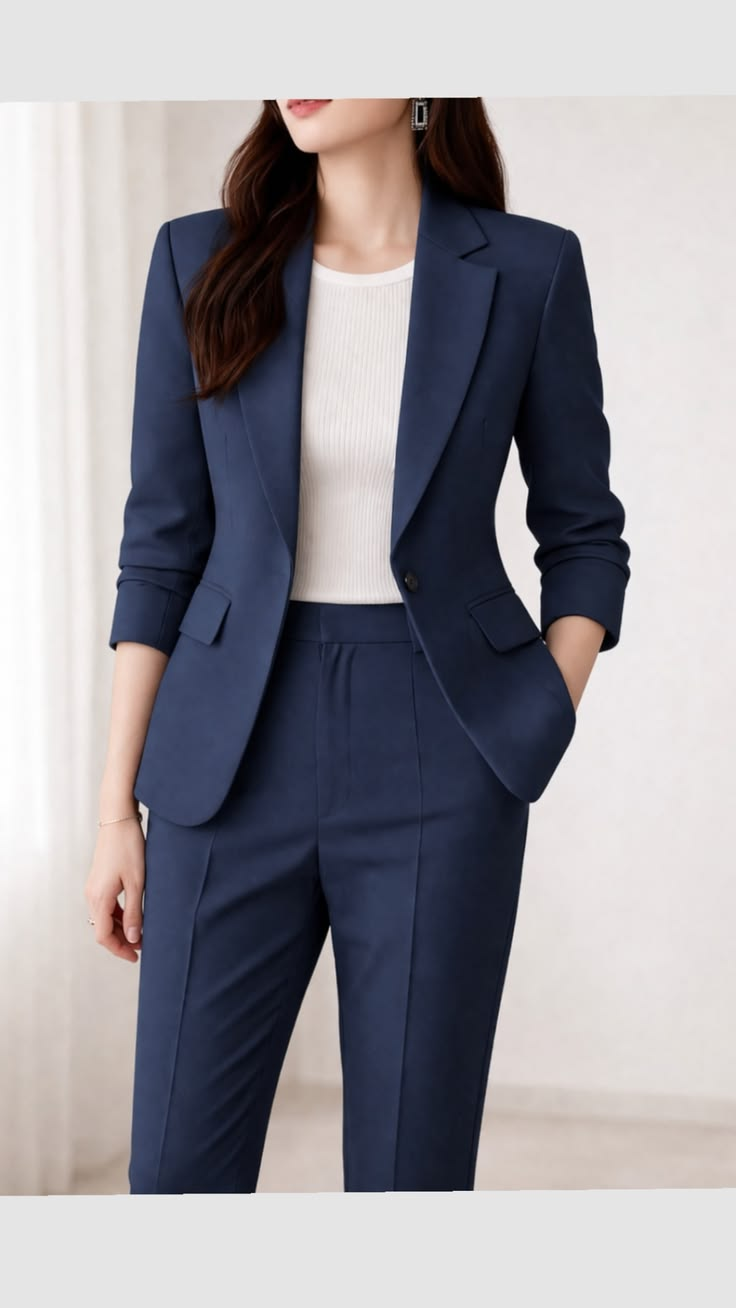
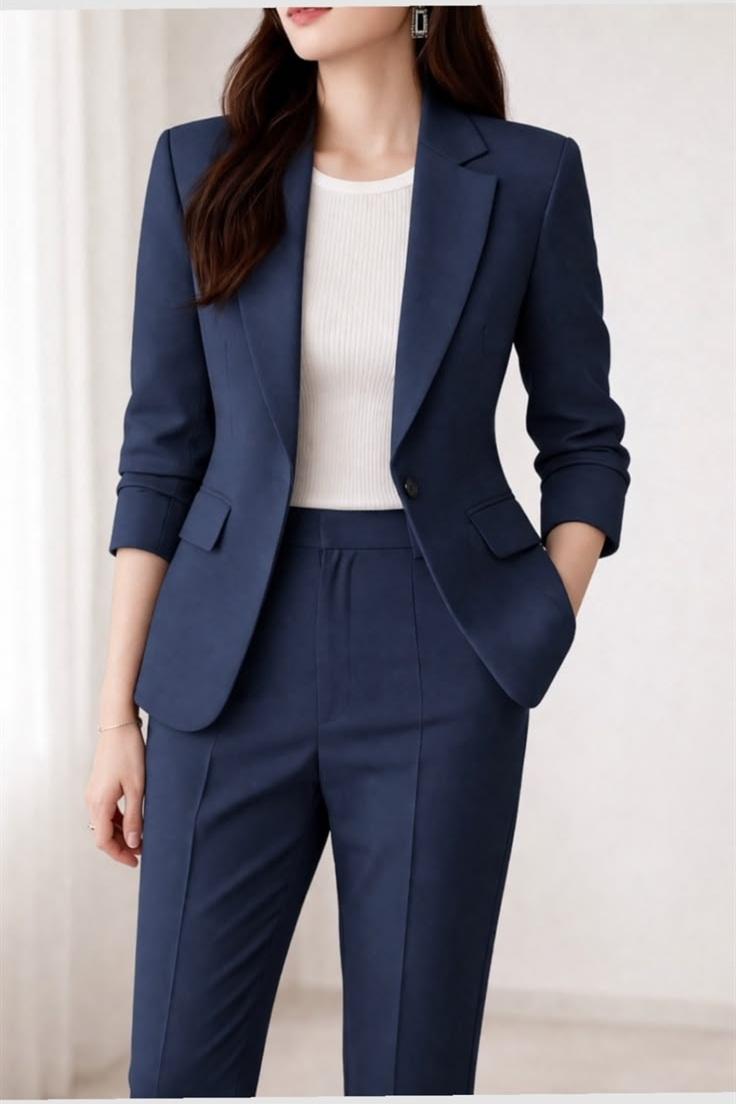
Swap Formal and Corporate images between Services & Work, crop blazer image and apply cover fit to eliminate top/bottom spacing

diff --git a/index.html b/index.html
@@ -402,9 +402,9 @@
           <div class="col-md-6 col-lg-4" data-aos="fade-up">
             <article class="service-card">
               <div class="service-card-img-wrap">
-                <img src="assets/images/collections/Professional%20Office%20look.jpg"
+                <img src="assets/images/collections/Classy%20Office%20Outfit%20_%20Minimal%20&%20Chic%20Workwear%20Inspo.jpg"
                   alt="Woman wearing tailored formal office shirt and trousers"
-                  width="736" height="1307" loading="lazy" decoding="async">
+                  width="736" height="1104" loading="lazy" decoding="async">
                 <div class="sc-vignette" aria-hidden="true"></div>
               </div>
               <div class="service-content">
@@ -434,9 +434,9 @@
           <div class="col-md-6 col-lg-4" data-aos="fade-up" data-aos-delay="150">
             <article class="service-card">
               <div class="service-card-img-wrap">
-                <img src="assets/images/collections/download%20(1).jpg"
-                  alt="Woman wearing tailored corporate medical lab coat uniform"
-                  width="736" height="1066" loading="lazy" decoding="async">
+                <img src="assets/images/collections/Navy%20Blue%20Medical%20Scrub%20Set%20for%20Women%20_%20Stylish%20Nurse%20&%20Doctor%20Uniform.jpg"
+                  alt="Woman wearing tailored corporate medical scrub uniform"
+                  width="736" height="1104" loading="lazy" decoding="async">
                 <div class="sc-vignette" aria-hidden="true"></div>
               </div>
               <div class="service-content">
@@ -574,11 +574,11 @@
 
           <!-- Women Gallery Item 1: Formal Shirt & Trousers -->
           <article class="gallery-item" data-aos="zoom-in">
-            <a href="assets/images/collections/Classy%20Office%20Outfit%20_%20Minimal%20&%20Chic%20Workwear%20Inspo.jpg" class="glightbox"
+            <a href="assets/images/collections/Professional%20Office%20look.jpg" class="glightbox"
               data-gallery="tailor-gallery" aria-label="View women's formal outfit collection">
-              <img src="assets/images/collections/Classy%20Office%20Outfit%20_%20Minimal%20&%20Chic%20Workwear%20Inspo.jpg"
-                alt="Woman wearing a tailored classy office formal shirt and trousers"
-                width="736" height="1104" loading="lazy" decoding="async">
+              <img src="assets/images/collections/Professional%20Office%20look.jpg"
+                alt="Woman wearing a tailored formal office shirt and trousers"
+                width="736" height="1307" loading="lazy" decoding="async">
               <span class="gallery-overlay-icon"><i class="fa-solid fa-expand"></i></span>
               <span class="gallery-label">Formal Shirt &amp; Pants</span>
             </a>
@@ -590,7 +590,7 @@
               data-gallery="tailor-gallery" aria-label="View women's blazer collection">
               <img src="assets/images/collections/download-1.jpg"
                 alt="Woman wearing custom tailored blazer outfit"
-                width="736" height="1308" loading="lazy" decoding="async">
+                width="736" height="1104" loading="lazy" decoding="async">
               <span class="gallery-overlay-icon"><i class="fa-solid fa-expand"></i></span>
               <span class="gallery-label">Women's Blazer</span>
             </a>
@@ -598,11 +598,11 @@
 
           <!-- Women Gallery Item 3: Corporate Uniform -->
           <article class="gallery-item" data-aos="zoom-in" data-aos-delay="150">
-            <a href="assets/images/collections/Navy%20Blue%20Medical%20Scrub%20Set%20for%20Women%20_%20Stylish%20Nurse%20&%20Doctor%20Uniform.jpg" class="glightbox"
+            <a href="assets/images/collections/download%20(1).jpg" class="glightbox"
               data-gallery="tailor-gallery" aria-label="View women's corporate uniform collection">
-              <img src="assets/images/collections/Navy%20Blue%20Medical%20Scrub%20Set%20for%20Women%20_%20Stylish%20Nurse%20&%20Doctor%20Uniform.jpg"
-                alt="Woman wearing tailored corporate medical scrub uniform"
-                width="736" height="1104" loading="lazy" decoding="async">
+              <img src="assets/images/collections/download%20(1).jpg"
+                alt="Woman wearing tailored corporate medical lab coat uniform"
+                width="736" height="1066" loading="lazy" decoding="async">
               <span class="gallery-overlay-icon"><i class="fa-solid fa-expand"></i></span>
               <span class="gallery-label">Corporate Uniform</span>
             </a>

diff --git a/assets/css/style.css b/assets/css/style.css
@@ -1242,6 +1242,13 @@ img {
   height: clamp(280px, 26vw, 360px);
 }
 
+.gallery-grid-women > .gallery-item img {
+  width: 100%;
+  height: 100%;
+  object-fit: cover;
+  object-position: center top;
+}
+
 @media (max-width: 991.98px) {
   .gallery-grid-women {
     grid-template-columns: repeat(2, minmax(0, 1fr));
